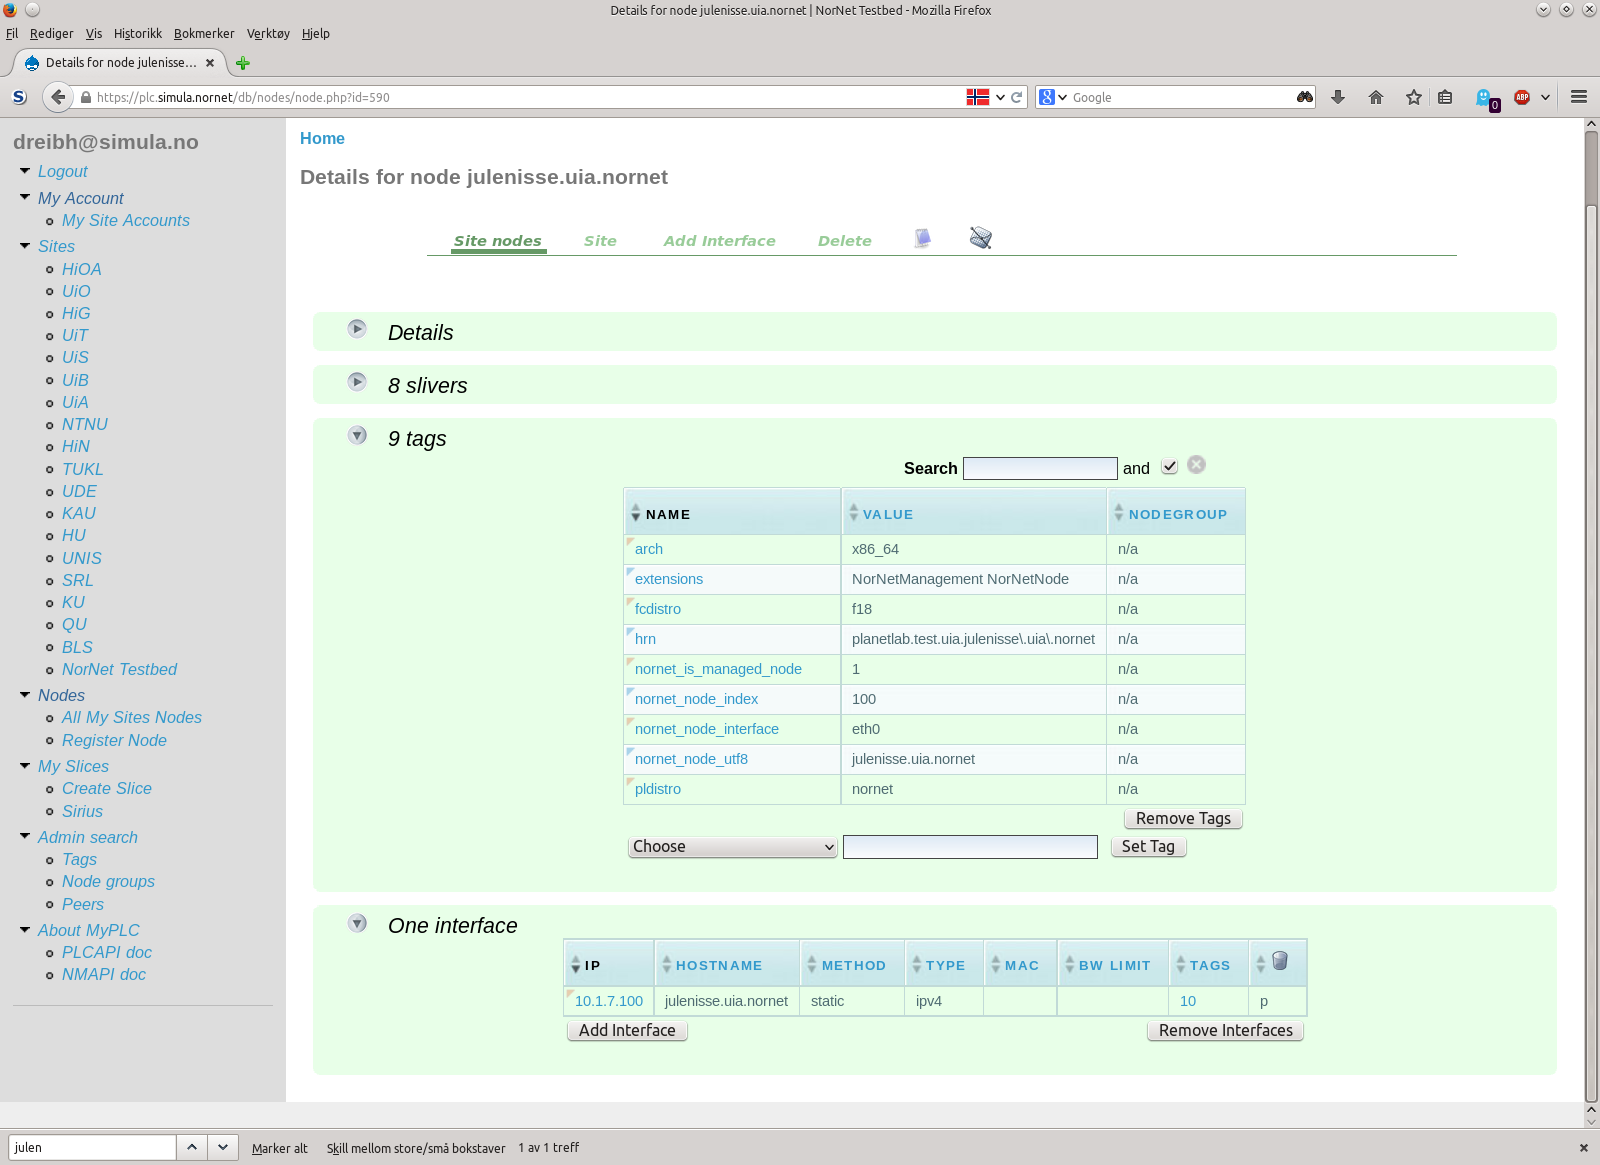
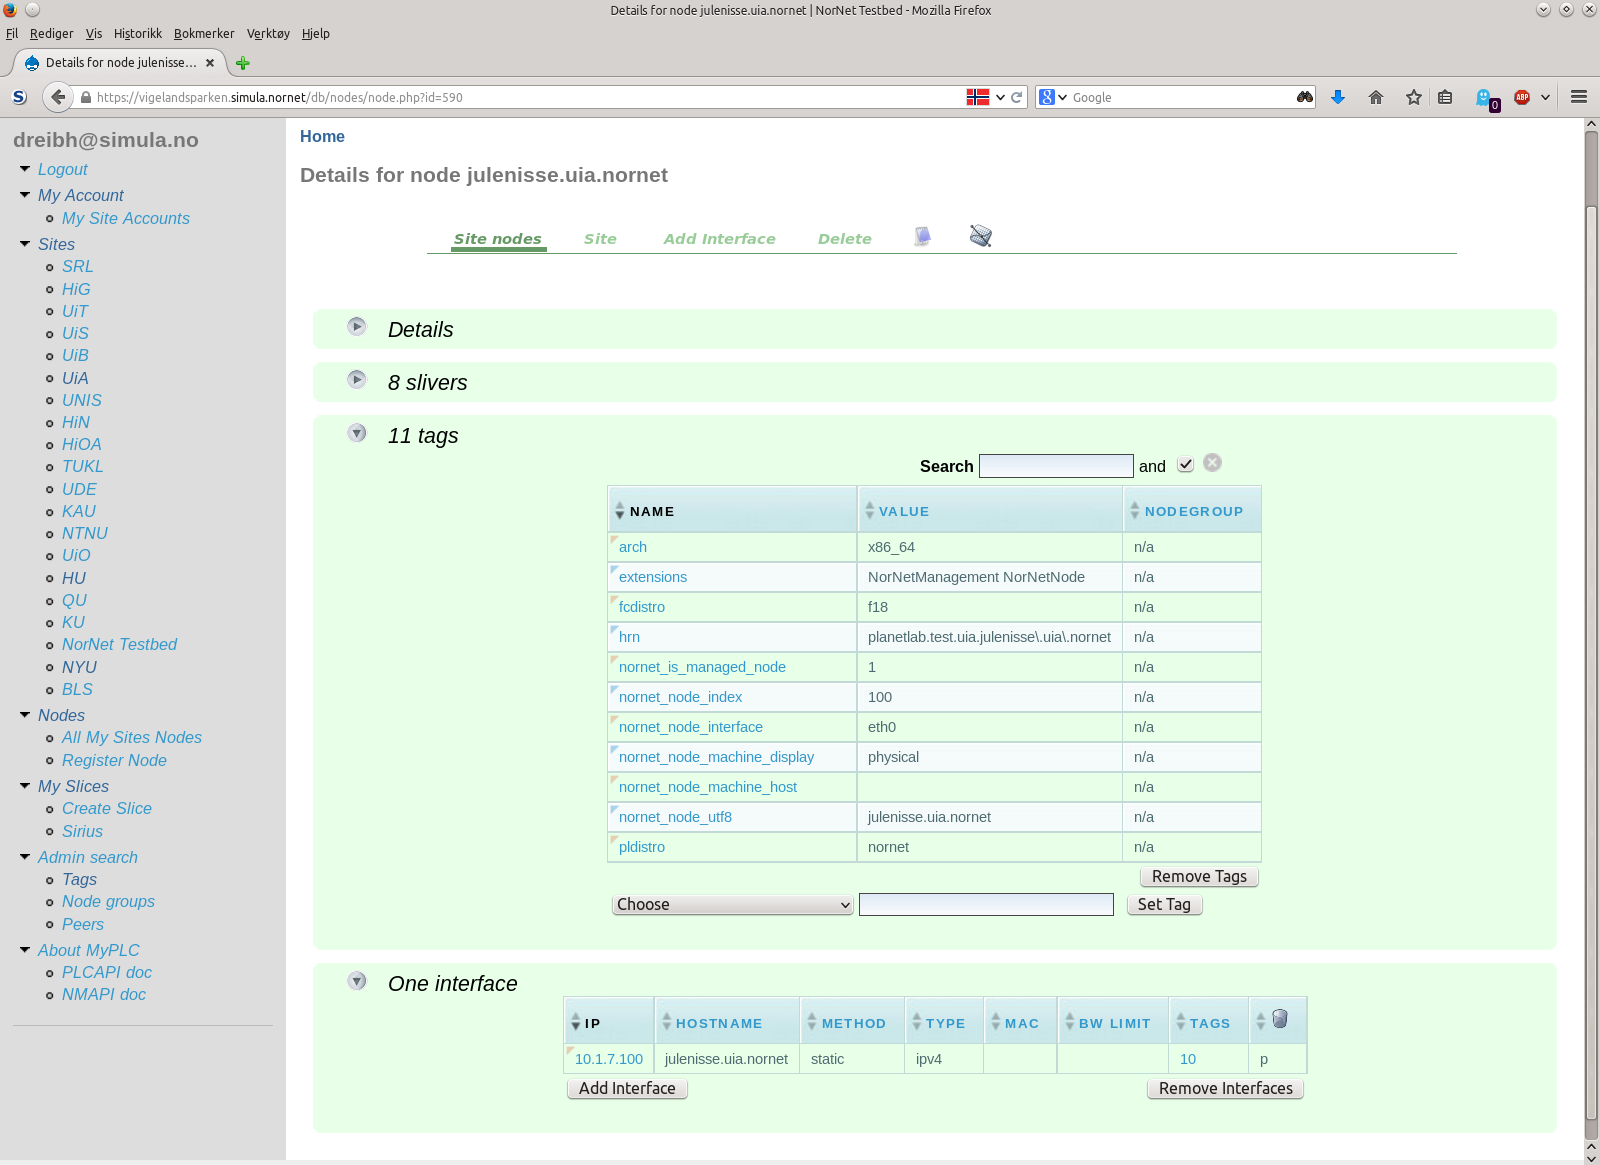
Some more updates.

diff --git a/Part-UserGuide.tex b/Part-UserGuide.tex
@@ -231,7 +231,7 @@ In order to achieve the testbed availability described in Section~\ref{sec:Desig
 
 While the web interface presents a very detailed and fine-grained view of \noun{NorNet Core}, a more illustrative view was intended to give a quick overview of the site statuses for both administrators and users of the testbed (i.e.\ the researchers). Therefore, we -- as a first step -- applied the \noun{NagMap}\footnote{\noun{NagMap}: \url{https://github.com/hecko/nagmap/}.} plug-in for \noun{Nagios}, which provided a map view of the \noun{NorNet Core} testbed. However, \noun{NagMap} just produced a quite simple projection of the sites and their connections (i.e.\ the tunnels) to a \noun{Google Maps}\footnote{\noun{Google Maps}: \url{https://maps.google.no/}.} satellite map. Particularly due to the fully-connected mesh topology of the tunnels (see Section~\ref{sec:Design}), the link view, however, became relatively confusing. Therefore, we have developed our own plug-in named \noun{NorNet-Kontrollsenter}.
 
-\noun{NorNet-Kontrollsenter} uses \noun{Apache}/PHP~\cite{ApacheDoc} to access the recorded \noun{Nagios} status information. It then provides an HTML page with the results. That is, the plug-in runs on the monitoring system itself. The results can then be accessed from a web server running on the same system, while a web browser on another machine can display the corresponding webpage (as shown in Figure~\ref{cap:Kontrollsenteret}). The returned web page with the results makes use of JavaScript, AJAX (Asynchronous JavaScript and XML) as well as SVG (Scalable Vector Graphics) with JavaScript to provide dynamic updates without having to reload the whole page. Furthermore, instead of tying the map display to a certain map service, we apply \noun{OpenLayers}~\cite{OpenLayersDoc}. It provides a service-independent mapping and layering library in JavaScript; the display can dynamically change between map services (currently, we apply 
+\noun{NorNet-Kontrollsenter}\index{Kontrollsenteret}\index{NorNet-Kontrollsenter} uses \noun{Apache}/PHP~\cite{ApacheDoc} to access the recorded \noun{Nagios} status information. It then provides an HTML page with the results. That is, the plug-in runs on the monitoring system itself. The results can then be accessed from a web server running on the same system, while a web browser on another machine can display the corresponding webpage (as shown in Figure~\ref{cap:Kontrollsenteret}). The returned web page with the results makes use of JavaScript, AJAX (Asynchronous JavaScript and XML) as well as SVG (Scalable Vector Graphics) with JavaScript to provide dynamic updates without having to reload the whole page. Furthermore, instead of tying the map display to a certain map service, we apply \noun{OpenLayers}~\cite{OpenLayersDoc}. It provides a service-independent mapping and layering library in JavaScript; the display can dynamically change between map services (currently, we apply 
 \noun{Open Street Map}\footnote{\noun{Open Street Map}: \url{http://www.openstreetmap.org/}.},
 \noun{Google Maps} and
 \noun{Bing Maps}\footnote{\noun{Bing Maps}: \url{http://www.bing.com/maps/}.}). Furthermore, overlaying functionality is provided. That is, overlays like the \noun{Open Weather Map}\footnote{\noun{Open Weather Map}: \url{http://www.openweathermap.org/}.} overlay can add additional information to the map (in Figure~\ref{cap:Kontrollsenteret}: the current weather as well as clouds and precipitation forecasts). In the future, we plan to use this feature for more detailed network status information. Map services and the visibility of overlays can be changed interactively.
@@ -593,7 +593,7 @@ Information about the available \noun{NorNet Core} sites\index{Sites} are provid
 
 Figure~\ref{cap:PLC-Sites-HU} presents the detailed site information view for the Hainan University\index{Hainan University} site. Particularly, it contains data such as the site's URL\nomenclature{URL}{Uniform Resource Locator}\index{Uniform Resource Locator}\index{URL|see{Uniform Resource Locator}}, the location, the research nodes and the users at at site. \noun{NorNet}-specific information is stored in custom tags. Some important tags are:
 \begin{itemize}
- \item ``nornet\_is\_managed\_site''\index{nornet\_is\_managed\_site}: Denoted whether the site is a \noun{NorNet Core}-managed site~(1) or not~(0). \noun{NorNet Core}-managed sites are assumed to be modified by scripts on the PLC server (by the \noun{NorNet Core} staff). Therefore, configuration of the sites should \emph{not} be changed in the PLC web interface (even if the user's role allows to do this) to avoid misconfiguration!
+ \item ``nornet\_is\_managed\_site''\index{nornet\_is\_managed\_site}: Denotes whether the site is a \noun{NorNet Core}-managed site~(1) or not~(0). \noun{NorNet Core}-managed sites are assumed to be modified by scripts on the PLC server (by the \noun{NorNet Core} staff). Therefore, configuration of the sites should \emph{not} be changed in the PLC web interface (even if the user's role allows to do this) to avoid misconfiguration!
 
  \item ``nornet\_site\_utf8''\index{nornet\_site\_utf8}: The site name in UTF-8\footnote{Universal Character Set Transformation Format -- 8-bit, see also~\cite{RFC3629}.}\nomenclature{UTF-8}{Universal Character Set Transformation Format -- 8-bit}\index{UTF-8} encoding, e.g.\ \foreignlanguage{norsk}{Universitetet i Tromsø\index{Universitetet i Tromsø}} or \foreignlanguage{german}{Universität Kaiserslautern\index{Universität Kaiserslautern}}. For compatibility reasons with \noun{PlanetLab}, the site name in the site configuration must be ASCII\footnote{American Standard Code for Information Interchange, see also~\cite{Fis00}.}\nomenclature{ASCII}{American Standard Code for Information Interchange}\index{ASCII}. Therefore, names with special characters (e.g.\ Norwegian, German, etc.) can be stored in this tag.
  
@@ -661,9 +661,9 @@ The ``Nodes''\index{Nodes} section, as depicted in Figure~\ref{cap:PLC-Nodes}, p
 
 Particularly important is the Status column of the nodes table. It displays the status of each research node, according to its communication with the PLC. The following status values are important:
 \begin{itemize}
- \item ``boot''\index{boot}: The node is booted and should be up and running. This is, hopefully, the status of all nodes in the list.
- \item ``failboot''\index{failboot}: Booting has failed for some reason. The node is not usable and the \noun{NorNet Core} staff should check the node's status.
- \item ``reinstall''\index{reinstall}: The node is most likely unusable. When it boots the next time, it will run a complete reinstall. This is also the status of newly added nodes.
+ \item ``boot''\index{boot}\index{Boot State!boot}: The node is booted and should be up and running. This is, hopefully, the status of all nodes in the list.
+ \item ``failboot''\index{failboot}\index{Boot State!failboot}: Booting has failed for some reason. The node is not usable and the \noun{NorNet Core} staff should check the node's status.
+ \item ``reinstall''\index{reinstall}\index{Boot State!reinstall}: The node is most likely unusable. When it boots the next time, it will run a complete reinstall. This is also the status of newly added nodes.
 \end{itemize}
 
 
@@ -680,23 +680,23 @@ Particularly important is the Status column of the nodes table. It displays the 
 
 Clicking on a research node displays details about the node itself, as shown in Figure~\ref{cap:PLC-Node-Details} for the node julenisse.uia.nornet\index{julenisse.uia.nornet}. \noun{NorNet Core}-specific configuration settings are stored in custom tags in the PLC database, together with some ``standard'' PLC tags. Some important tags to be noted here are:
 \begin{itemize}
- \item ``arch''\index{arch}: The architecture of the system. It is currently always x86\_64 (i386 or other CPU types are not supported).
+ \item ``arch''\index{arch}\index{Tag!arch}: The architecture of the system. It is currently always x86\_64 (i386 or other CPU types are not supported).
 
- \item ``fcdistro''\index{fcdistro}: The variant of \noun{Fedora Core Linux} that runs on the node, e.g.\ ``fc18'' for version~18.
+ \item ``fcdistro''\index{fcdistro}\index{Tag!fcdistro}: The variant of \noun{Fedora Core Linux} that runs on the node, e.g.\ ``fc18'' for version~18.
 
- \item ``pldistro''\index{pldistro}: The software distribution that is installed on the research nodes. Possible values are currently ``lxc'' (stock \noun{PlanetLab}-LXC software) and ``nornet'' (the \noun{NorNet} distribution, to be introduced in Chapter~\ref{cha:Distribution}).
+ \item ``pldistro''\index{pldistro}\index{Tag!pldistro}: The software distribution that is installed on the research nodes. Possible values are currently ``lxc'' (stock \noun{PlanetLab}-LXC software) and ``nornet'' (the \noun{NorNet} distribution, to be introduced in Chapter~\ref{cha:Distribution}).
  
- \item ``nornet\_is\_managed\_node''\index{nornet\_is\_managed\_node}: Denoted whether the research node is a \noun{NorNet Core}-managed node~(1) or not~(0). \noun{NorNet Core}-managed nodes are assumed to be modified by scripts on the PLC server (by the \noun{NorNet Core} staff). Therefore, configuration of the nodes should \emph{not} be changed in the PLC web interface (even if the user's role allows to do this) to avoid misconfiguration!
+ \item ``nornet\_is\_managed\_node''\index{nornet\_is\_managed\_node}\index{Tag!nornet\_is\_managed\_node}: Denotes whether the research node is a \noun{NorNet Core}-managed node~(1) or not~(0). \noun{NorNet Core}-managed nodes are assumed to be modified by scripts on the PLC server (by the \noun{NorNet Core} staff). Therefore, configuration of the nodes should \emph{not} be changed in the PLC web interface (even if the user's role allows to do this) to avoid misconfiguration!
 
- \item ``nornet\_node\_utf8''\index{nornet\_node\_utf8}: The node name in UTF-8 representation. All node names must use ASCII names in the PLC configuration. However, this tag allows to use special characters (like ``vækerø.simula.nornet''\index{vækerø.simula.nornet}); the DNS configuration can then generate appropriate Internationalised Domain Names\index{Internationalised Domain Names}\nomenclature{IDN}{Internationalised Domain Names}~(IDN\index{IDN|see{Internationalised Domain Names}}, \cite{RFC3492}) references to the ASCII version (e.g.\ ``vækerø.simula.nornet'' $\rightarrow$ ``vaekeroe.simula.nornet''\index{vaekeroe.simula.nornet}) as well.
+ \item ``nornet\_node\_utf8''\index{nornet\_node\_utf8}\index{Tag!nornet\_node\_utf8}: The node name in UTF-8 representation. All node names must use ASCII names in the PLC configuration. However, this tag allows to use special characters (like ``vækerø.simula.nornet''\index{vækerø.simula.nornet}); the DNS configuration can then generate appropriate Internationalised Domain Names\index{Internationalised Domain Names}\nomenclature{IDN}{Internationalised Domain Names}~(IDN\index{IDN|see{Internationalised Domain Names}}, \cite{RFC3492}) references to the ASCII version (e.g.\ ``vækerø.simula.nornet'' $\rightarrow$ ``vaekeroe.simula.nornet''\index{vaekeroe.simula.nornet}) as well.
  
- \item ``nornet\_node\_index''\index{nornet\_node\_index}: The node index of the node (root context).
+ \item ``nornet\_node\_index''\index{nornet\_node\_index}\index{Tag!nornet\_node\_index}: The node index of the node (root context).
  
- \item ``nornet\_node\_interface''\index{nornet\_node\_interface}: The name of the \noun{NorNet Core} network interface (usually: ``eth0'').
+ \item ``nornet\_node\_interface''\index{nornet\_node\_interface}\index{Tag!nornet\_node\_interface}: The name of the \noun{NorNet Core} network interface (usually: ``eth0'').
  
- \item ``nornet\_node\_machine\_host''\index{nornet\_node\_machine\_host}: If the research node is a virtual machine, the name of the physical host can be specified here.
+ \item ``nornet\_node\_machine\_host''\index{nornet\_node\_machine\_host}:\index{Tag!nornet\_node\_machine\_host} If the research node is a virtual machine, the name of the physical host can be specified here.
  
- \item ``nornet\_node\_machine\_display''\index{nornet\_node\_machine\_display}: If available, a URL to remotely access the display of the node can be specified here.
+ \item ``nornet\_node\_machine\_display''\index{nornet\_node\_machine\_display}\index{Tag!nornet\_node\_machine\_display}: If available, a URL to remotely access the display of the node can be specified here.
 
  \end{itemize}
 
@@ -716,25 +716,25 @@ The node details page also contains the list of network interfaces. \noun{NorNet
 
 The current version of the PLC web interface supports neither multi-homing nor IPv6. Therefore, only the IPv4 configuration of the primary ISP is found directly in this view. IPv6 configuration as well as the configuration for additional ISPs is completely stored in PLC tags:
 \begin{itemize}
- \item ``ipaddr$N$''\index{ipaddr$N$}: The IPv4 adddress of the $N+1$-th ISP. Note, that the IPv4 address of the primary interface is stored directly in the configuration, not in the tags.
+ \item ``ipaddr$N$''\index{ipaddr$N$}\index{Tag!ipaddr$N$}: The IPv4 adddress of the $N+1$-th ISP. Note, that the IPv4 address of the primary interface is stored directly in the configuration, not in the tags.
  
- \item ``netmask$N$''\index{netmask$N$}: The IPv4 network mask of the $N+1$-th ISP.
+ \item ``netmask$N$''\index{netmask$N$}\index{Tag!netmask$N$}: The IPv4 network mask of the $N+1$-th ISP.
 
- \item ``ipv6addr''\index{ipv6addr}: The IPv6 network address (i.e.\ address/prefix) of the primary ISP.
+ \item ``ipv6addr''\index{ipv6addr}\index{Tag!ipv6addr}: The IPv6 network address (i.e.\ address/prefix) of the primary ISP.
   
- \item ``ipv6\_defaultgw''\index{ipv6\_defaultgw}: The IPv6 default gateway of the primary ISP.
+ \item ``ipv6\_defaultgw''\index{ipv6\_defaultgw}\index{Tag!ipv6\_defaultgw}: The IPv6 default gateway of the primary ISP.
 
- \item ``ipv6addr\_secondaries''\index{ipv6addr\_secondaries}: A space-separated list of all other ISPs IPv6 network addresses (i.e.\ address/prefix).
+ \item ``ipv6addr\_secondaries''\index{ipv6addr\_secondaries}\index{Tag!ipv6addr\_secondaries}: A space-separated list of all other ISPs IPv6 network addresses (i.e.\ address/prefix).
  
- \item ``ipv6\_autoconf''\index{ipv6\_autoconf}: Enables (``on'') or disables (``off'') IPv6 auto-configuration. It must be turned off for \noun{NorNet Core} interfaces.
+ \item ``ipv6\_autoconf''\index{ipv6\_autoconf}\index{Tag!ipv6\_autoconf}: Enables (``on'') or disables (``off'') IPv6 auto-configuration. It must be turned off for \noun{NorNet Core} interfaces.
 
- \item ``nornet\_ifprovider\_index''\index{nornet\_ifprovider\_index}: The provider index (see Chapter~\ref{cha:Providers}) of the primary ISP.
+ \item ``nornet\_ifprovider\_index''\index{nornet\_ifprovider\_index}\index{Tag!nornet\_ifprovider\_index}: The provider index (see Chapter~\ref{cha:Providers}) of the primary ISP.
 
- \item ``nornet\_is\_managed\_interface'': Denoted whether the interface is a \noun{NorNet Core}-managed interface~(1) or not~(0). \noun{NorNet Core}-managed interfaces are assumed to be modified by scripts on the PLC server (by the \noun{NorNet Core} staff). Therefore, configuration of the interfaces should \emph{not} be changed in the PLC web interface (even if the user's role allows to do this) to avoid misconfiguration!
+ \item ``nornet\_is\_managed\_interface''\index{nornet\_is\_managed\_interface}\index{Tag!nornet\_is\_managed\_interface}: Denotes whether the interface is a \noun{NorNet Core}-managed interface~(1) or not~(0). \noun{NorNet Core}-managed interfaces are assumed to be modified by scripts on the PLC server (by the \noun{NorNet Core} staff). Therefore, configuration of the interfaces should \emph{not} be changed in the PLC web interface (even if the user's role allows to do this) to avoid misconfiguration!
 
- \item ``ovs\_bridge''\index{ovs\_bridge}: This is the research nodes's network interface, as provided by \noun{Open vSwitch}\index{Open vSwitch}. It should be ``public0''.
+ \item ``ovs\_bridge''\index{ovs\_bridge}\index{Tag!ovs\_bridge}: This is the research nodes's network interface, as provided by \noun{Open vSwitch}\index{Open vSwitch}. It should be ``public0''.
 
- \item ``ifname''\index{ifname}: This is the physical interface that will be managed by \noun{Open vSwitch}\index{Open vSwitch}. It should be ``eth0''.
+ \item ``ifname''\index{ifname}\index{Tag!ifname}: This is the physical interface that will be managed by \noun{Open vSwitch}\index{Open vSwitch}. It should be ``eth0''.
 \end{itemize}
 
 Details on the research nodes, i.e.\ particularly their IP~addresses for all ISPs, can be found in Chapter~\ref{cha:Site-Details}.
@@ -745,7 +745,47 @@ Details on the research nodes, i.e.\ particularly their IP~addresses for all ISP
 \label{sub:Slices-and-Slivers}
 % ===========================================================================
 
-...
+% %%%%%%%%%%%%%%%%%%%%%%%%%%%%%%%%%%%%%%%%%%%%%%%%%%%%%%%%%
+\begin{figure*}
+\begin{center}
+\includegraphics[width=0.90\columnwidth]{%
+   Images/PDF/Screenshot-PLC-Slices.pdf}
+\end{center}
+\caption{The List of All Slices}
+\label{cap:PLC-Slices}
+\end{figure*}
+% %%%%%%%%%%%%%%%%%%%%%%%%%%%%%%%%%%%%%%%%%%%%%%%%%%%%%%%%%
+
+% %%%%%%%%%%%%%%%%%%%%%%%%%%%%%%%%%%%%%%%%%%%%%%%%%%%%%%%%%
+\begin{figure*}
+\begin{center}
+\includegraphics[width=0.90\columnwidth]{%
+   Images/PDF/Screenshot-PLC-Slices.pdf}
+\end{center}
+\caption{My Slices $\rightarrow$ hu\_multipath}
+\label{cap:PLC-Slice-hu-multipath}
+\end{figure*}
+% %%%%%%%%%%%%%%%%%%%%%%%%%%%%%%%%%%%%%%%%%%%%%%%%%%%%%%%%%
+
+
+The slices associated with a user are listed under ``My Slices'', as shown in Figure~\ref{cap:PLC-Slices}. Note that the list contains \emph{all} slices in \noun{NorNet Core}, not just the slices of the user itself! It is possible to use the search field to filter for a certain users' slices. Details about a slice can be obtained by clicking on the slice. This will open the slice details view.
+
+An example for the slice details can be found in Figure~\ref{cap:PLC-Slice-hu-multipath} for the slice ``hu\_multipath''. Particularly, for the users associated with a slice, it allows to edit the slice description as well as a public URL. The users of \noun{NorNet Core} slices are \emph{required} to keep their slice descriptions and URLs up-to-date, in order to inform people about what is going on in their slice! This can help debugging problems when something goes wrong or causes unusual behaviour.
+
+The slice details page also allows to add/remove nodes from/to the slice.
+\\
+\textbf{Adding nodes does not work at the moment! Ask \noun{NorNet Core} staff to do this via script. Otherwise, the slivers will get no IP~configuration!}
+
+\noun{NorNet}-specific slice information is stored in the following PLC tags:
+\begin{itemize}
+ \item ``nornet\_is\_managed\_slice''\index{nornet\_is\_managed\_slice}\index{Tag!nornet\_is\_managed\_slice}: Denotes whether the research slice is a \noun{NorNet Core}-managed slice~(1) or not~(0). \noun{NorNet Core}-managed slices are assumed to be modified by scripts on the PLC server (by the \noun{NorNet Core} staff). Therefore, configuration of the slices should \emph{not} be changed in the PLC web interface (even if the user's role allows to do this) to avoid misconfiguration!
+
+ \item ``nornet\_slice\_own\_addresses''\index{nornet\_slice\_own\_addresses}\index{Tag!nornet\_slice\_own\_addresses}: If set to ``1'', the sliver gets its own IP~addresses. This is the normal behaviour for \noun{NorNet Core} slivers that intend to use multi-homing. With ``0'', the behaviour is like for \noun{PlanetLab}, i.e.\ addresses are shared among slivers.
+
+ \item ``nornet\_slice\_node\_index''\index{nornet\_slice\_node\_index}\index{Tag!nornet\_slice\_node\_index}: This tag is a node-specific tag. That is, for each node associated with the slice, there may be a separate nornet\_slice\_node\_index tag. The tag defines the node index of the sliver. It is then used to systematically allocate the IP~addresses in case of using own IP~addresses for the sliver.
+ 
+ \item ``interface''\index{interface}\index{Tag!interface}: This node-specific tag contains the contents of a \noun{Fedora Core Linux} network interface configuration file (like \texttt{/etc/sysconfig/network-scripts/ifcfg-eth0}), as string representation of a Python dictionary. This tag is generated by the management script on the PLC, according to a site's ISP configuration and the value of the nornet\_slice\_node\_index tag. It is used by the Node Manager (to be introduced in Section~\ref{sec:Node-Manager}) to generate the corresponding network configuration for the sliver.
+\end{itemize}
 
 Details on the research nodes, i.e.\ particularly their slivers and all IP~addresses, can be found in Chapter~\ref{cha:Site-Details}.
 
@@ -755,6 +795,30 @@ Details on the research nodes, i.e.\ particularly their slivers and all IP~addre
 \section{Kontrollsenteret}
 \label{sec:Kontrollsenteret}
 % ###########################################################################
+
+% %%%%%%%%%%%%%%%%%%%%%%%%%%%%%%%%%%%%%%%%%%%%%%%%%%%%%%%%%
+\begin{figure*}
+\begin{center}
+\includegraphics[width=0.98\columnwidth]{%
+   Images/PDF/Kontrollsenteret-24Nov2014.pdf}
+\end{center}
+\caption{``NorNet-Kontrollsenter'' with Overlay Settings}
+\label{cap:Kontrollsenteret-Overlay}
+\end{figure*}
+% %%%%%%%%%%%%%%%%%%%%%%%%%%%%%%%%%%%%%%%%%%%%%%%%%%%%%%%%%
+
+% %%%%%%%%%%%%%%%%%%%%%%%%%%%%%%%%%%%%%%%%%%%%%%%%%%%%%%%%%
+\begin{figure*}
+\begin{center}
+\includegraphics[width=0.98\columnwidth]{%
+   Images/PDF/Kontrollsenteret-Simula-24Nov2014.pdf}
+\end{center}
+\caption{``NorNet-Kontrollsenter'' with Site Information}
+\label{cap:Kontrollsenteret-Site-Information}
+\end{figure*}
+% %%%%%%%%%%%%%%%%%%%%%%%%%%%%%%%%%%%%%%%%%%%%%%%%%%%%%%%%%
+
+Kontrollsenteret\index{Kontrollsenteret}\index{NorNet-Kontrollsenter}
 
 ...
 
